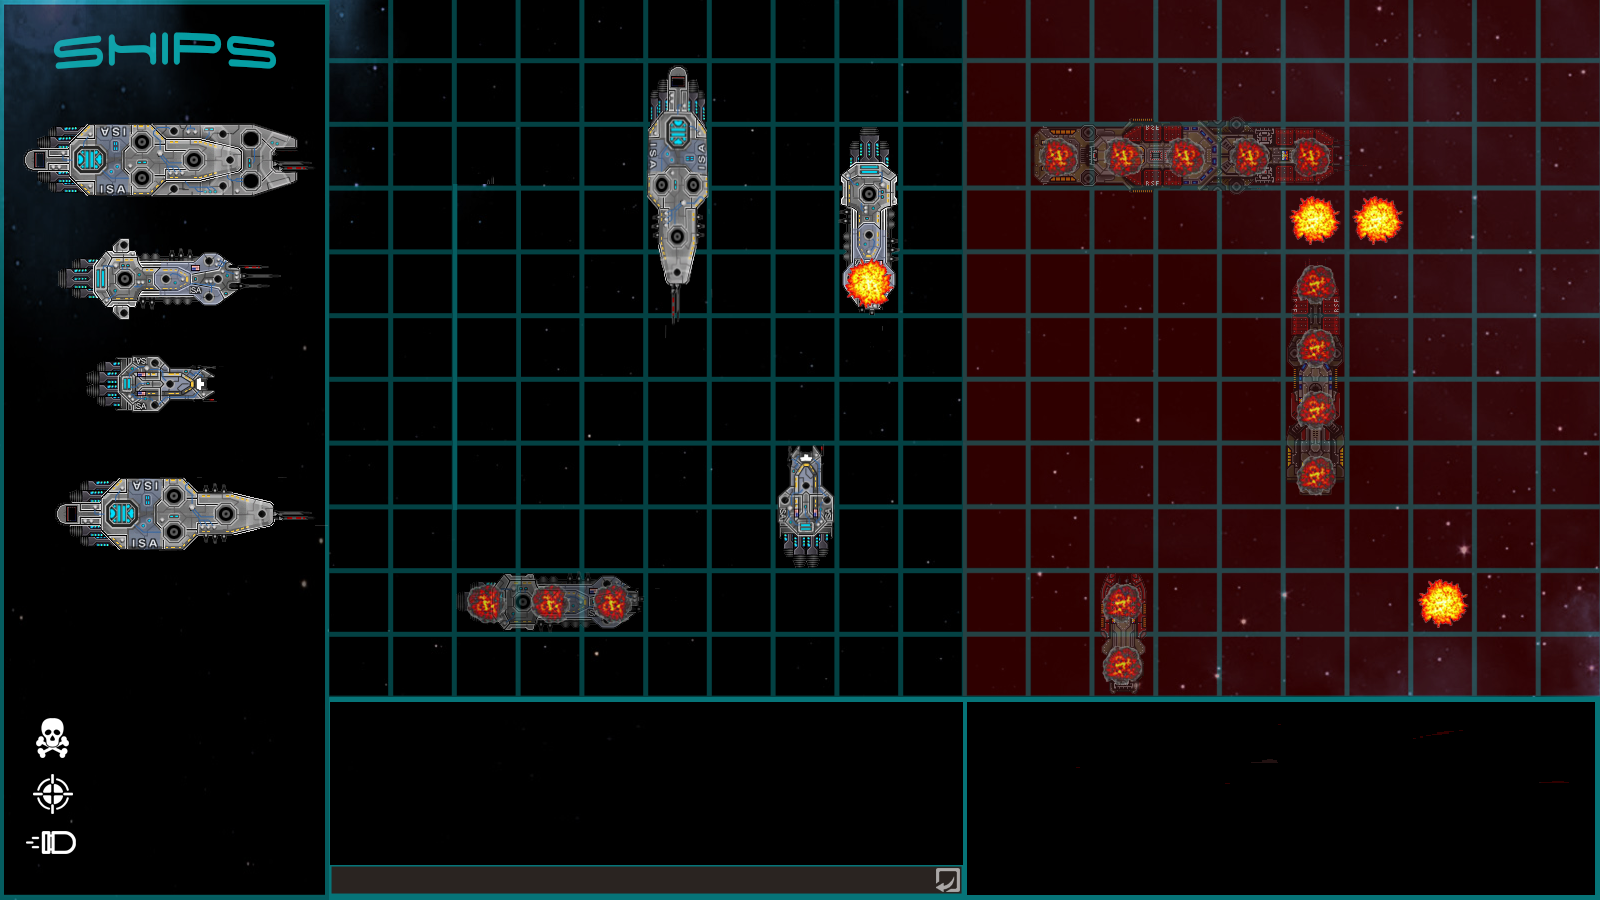
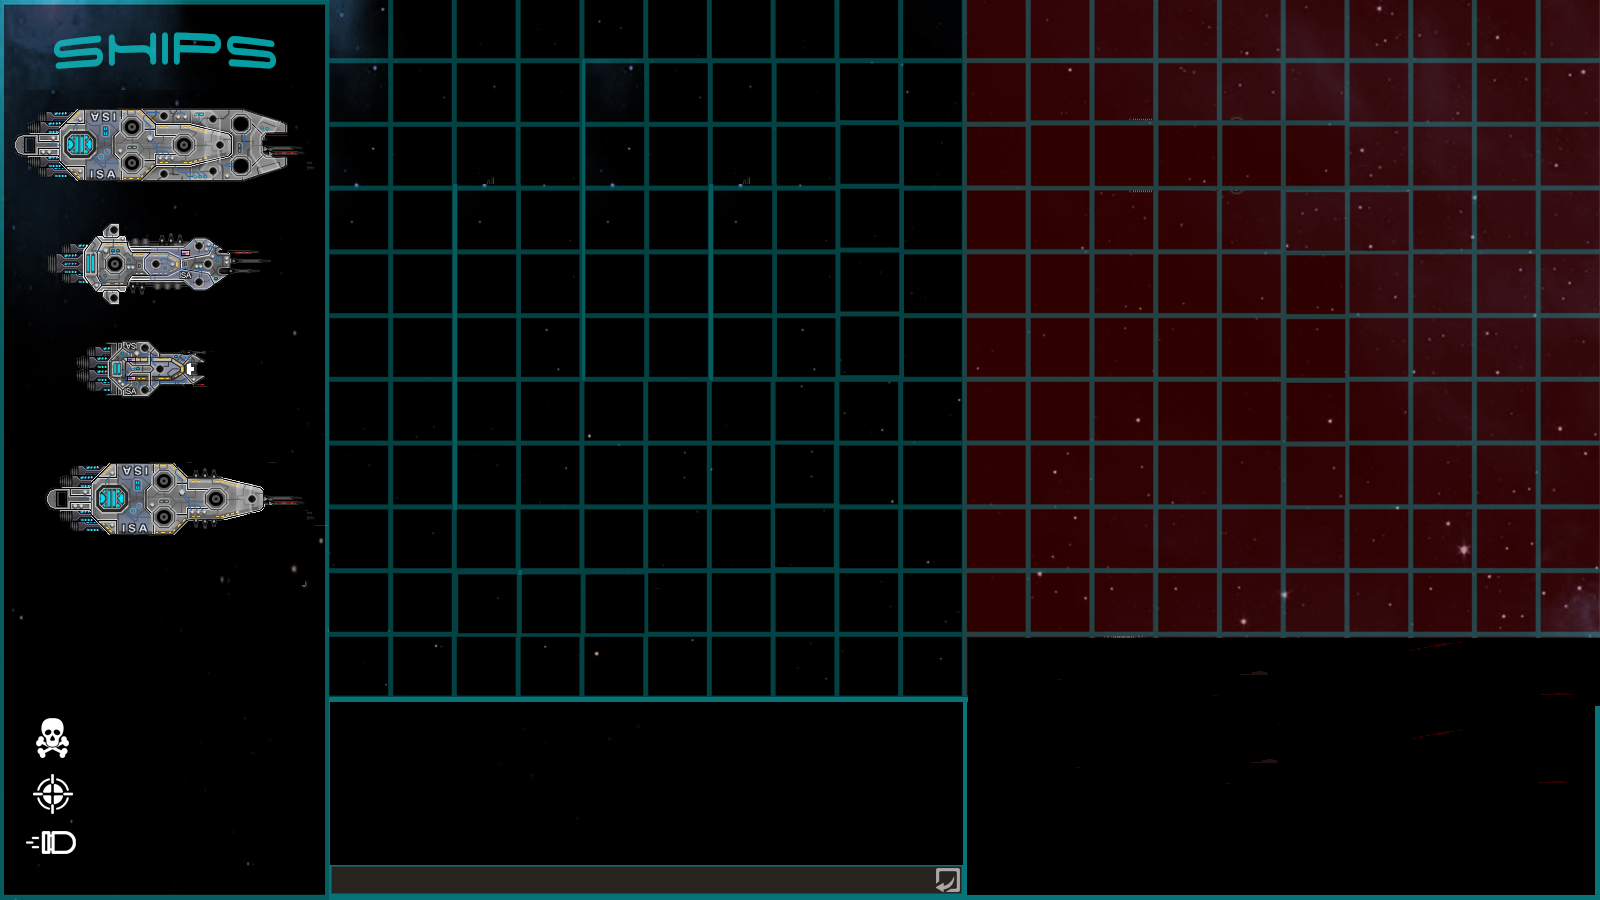
commit javafx

diff --git a/Battleship/src/main/resources/styles/InGameGUI.css b/Battleship/src/main/resources/styles/InGameGUI.css
@@ -5,3 +5,35 @@
     -fx-background-position: center center;
     -fx-effect: dropshadow(three-pass-box, black, 30, 0.5, 0, 0); 
 }
+
+#inGameGUI_button1{
+	-fx-background-image: url("../images/bateau1.png");
+    -fx-background-repeat: stretch;   
+    -fx-background-size: 236 75;
+    -fx-background-position: center center;
+	-fx-effect: dropshadow(three-pass-box, black, 30, 0.5, 0, 0); 
+}
+
+#inGameGUI_button2{
+	-fx-background-image: url("../images/bateau2.png");
+    -fx-background-repeat: stretch;   
+    -fx-background-size: 184 71;
+    -fx-background-position: center center;
+	-fx-effect: dropshadow(three-pass-box, black, 30, 0.5, 0, 0);
+}
+
+#inGameGUI_button3{
+	-fx-background-image: url("../images/bateau3.png");
+    -fx-background-repeat: stretch;   
+    -fx-background-size: 115 47;
+    -fx-background-position: center center;
+	-fx-effect: dropshadow(three-pass-box, black, 30, 0.5, 0, 0);
+}
+
+#inGameGUI_button4{
+	-fx-background-image: url("../images/bateau4.png");
+    -fx-background-repeat: stretch;   
+    -fx-background-size: 214 77;
+    -fx-background-position: center center;
+	-fx-effect: dropshadow(three-pass-box, black, 30, 0.5, 0, 0);
+}
